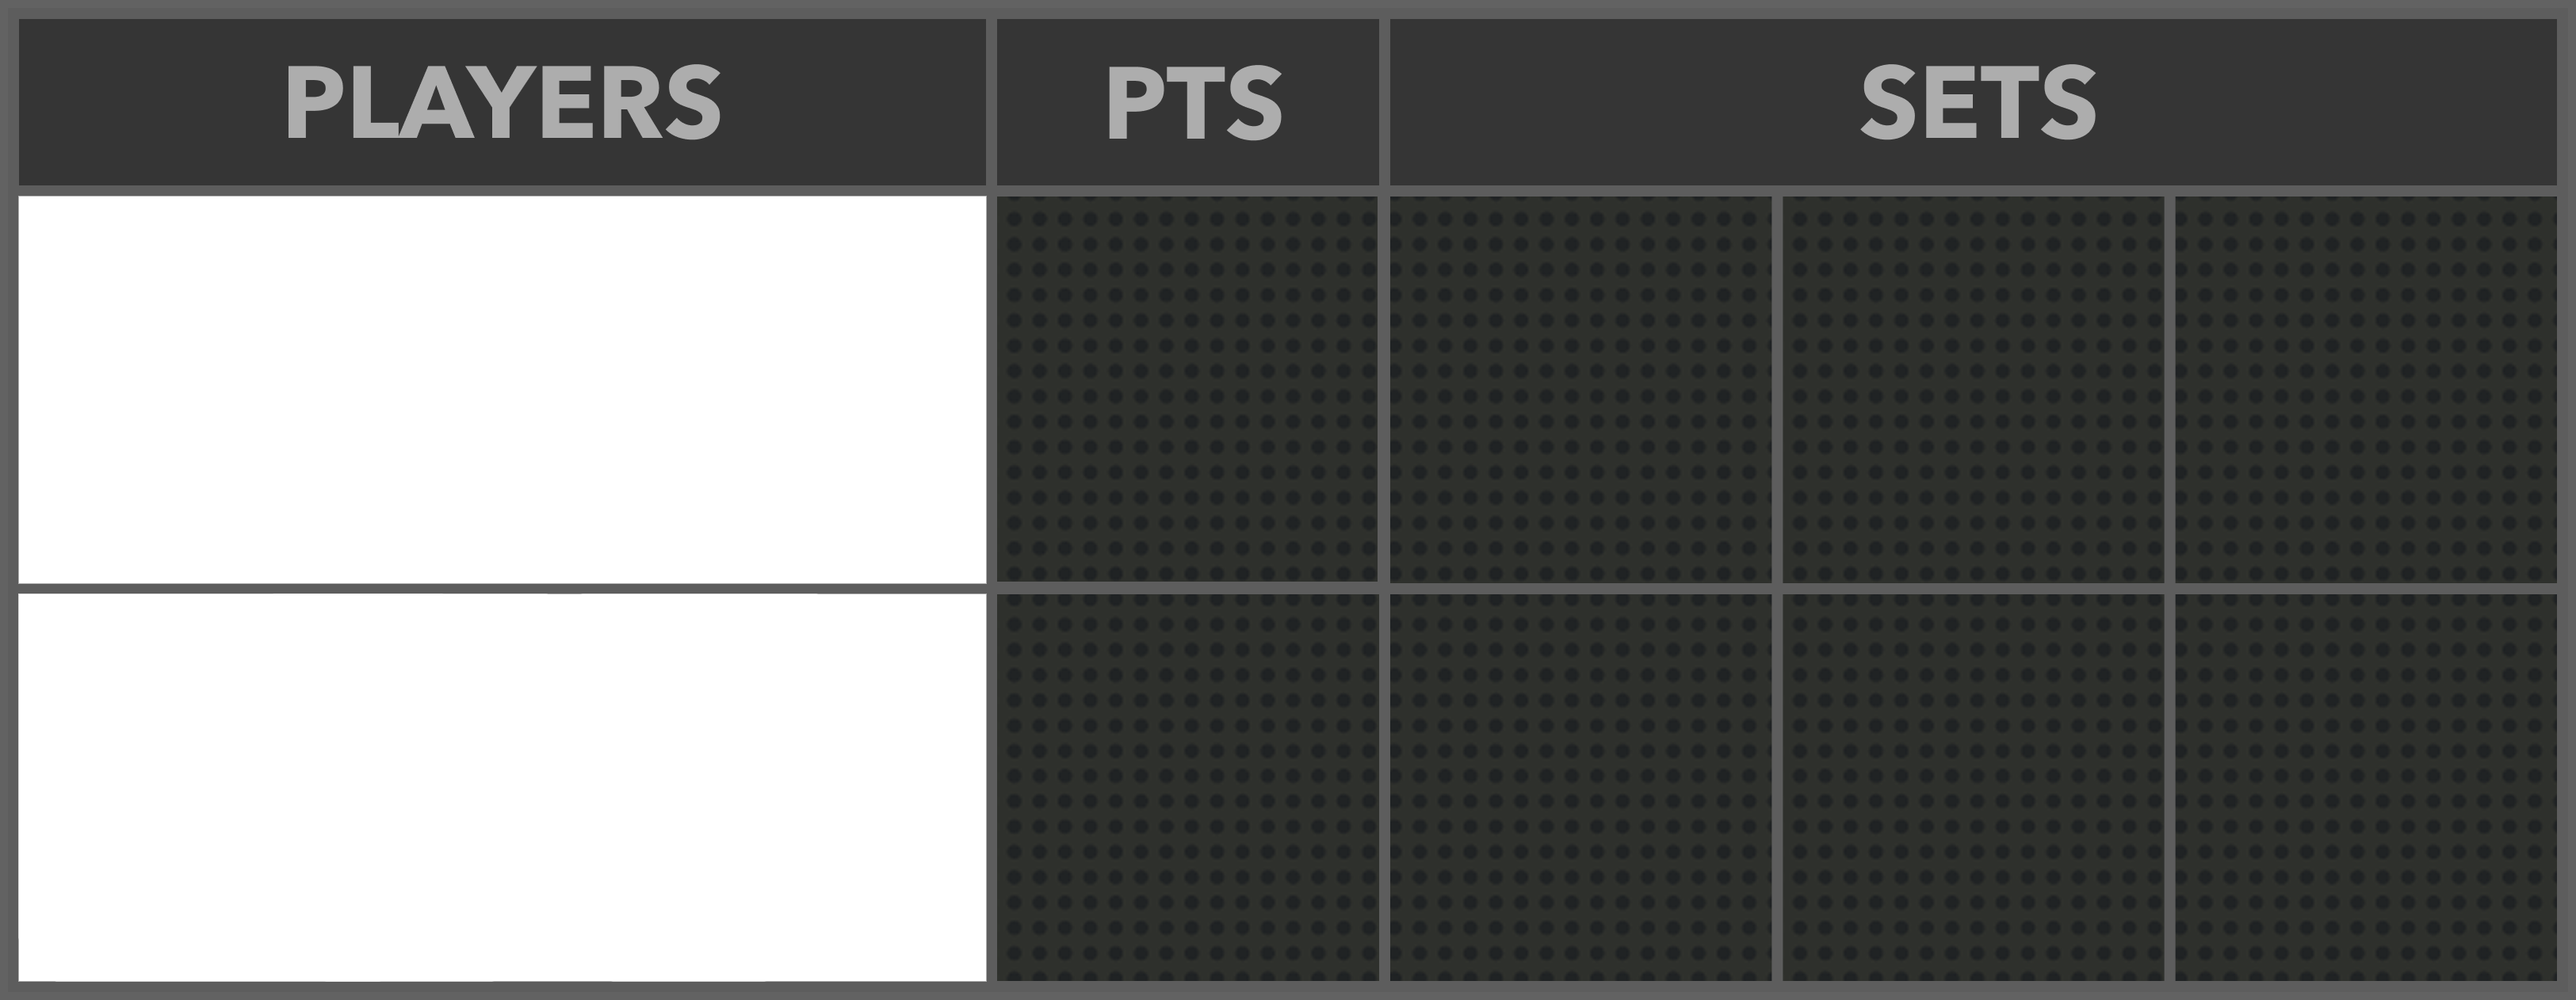
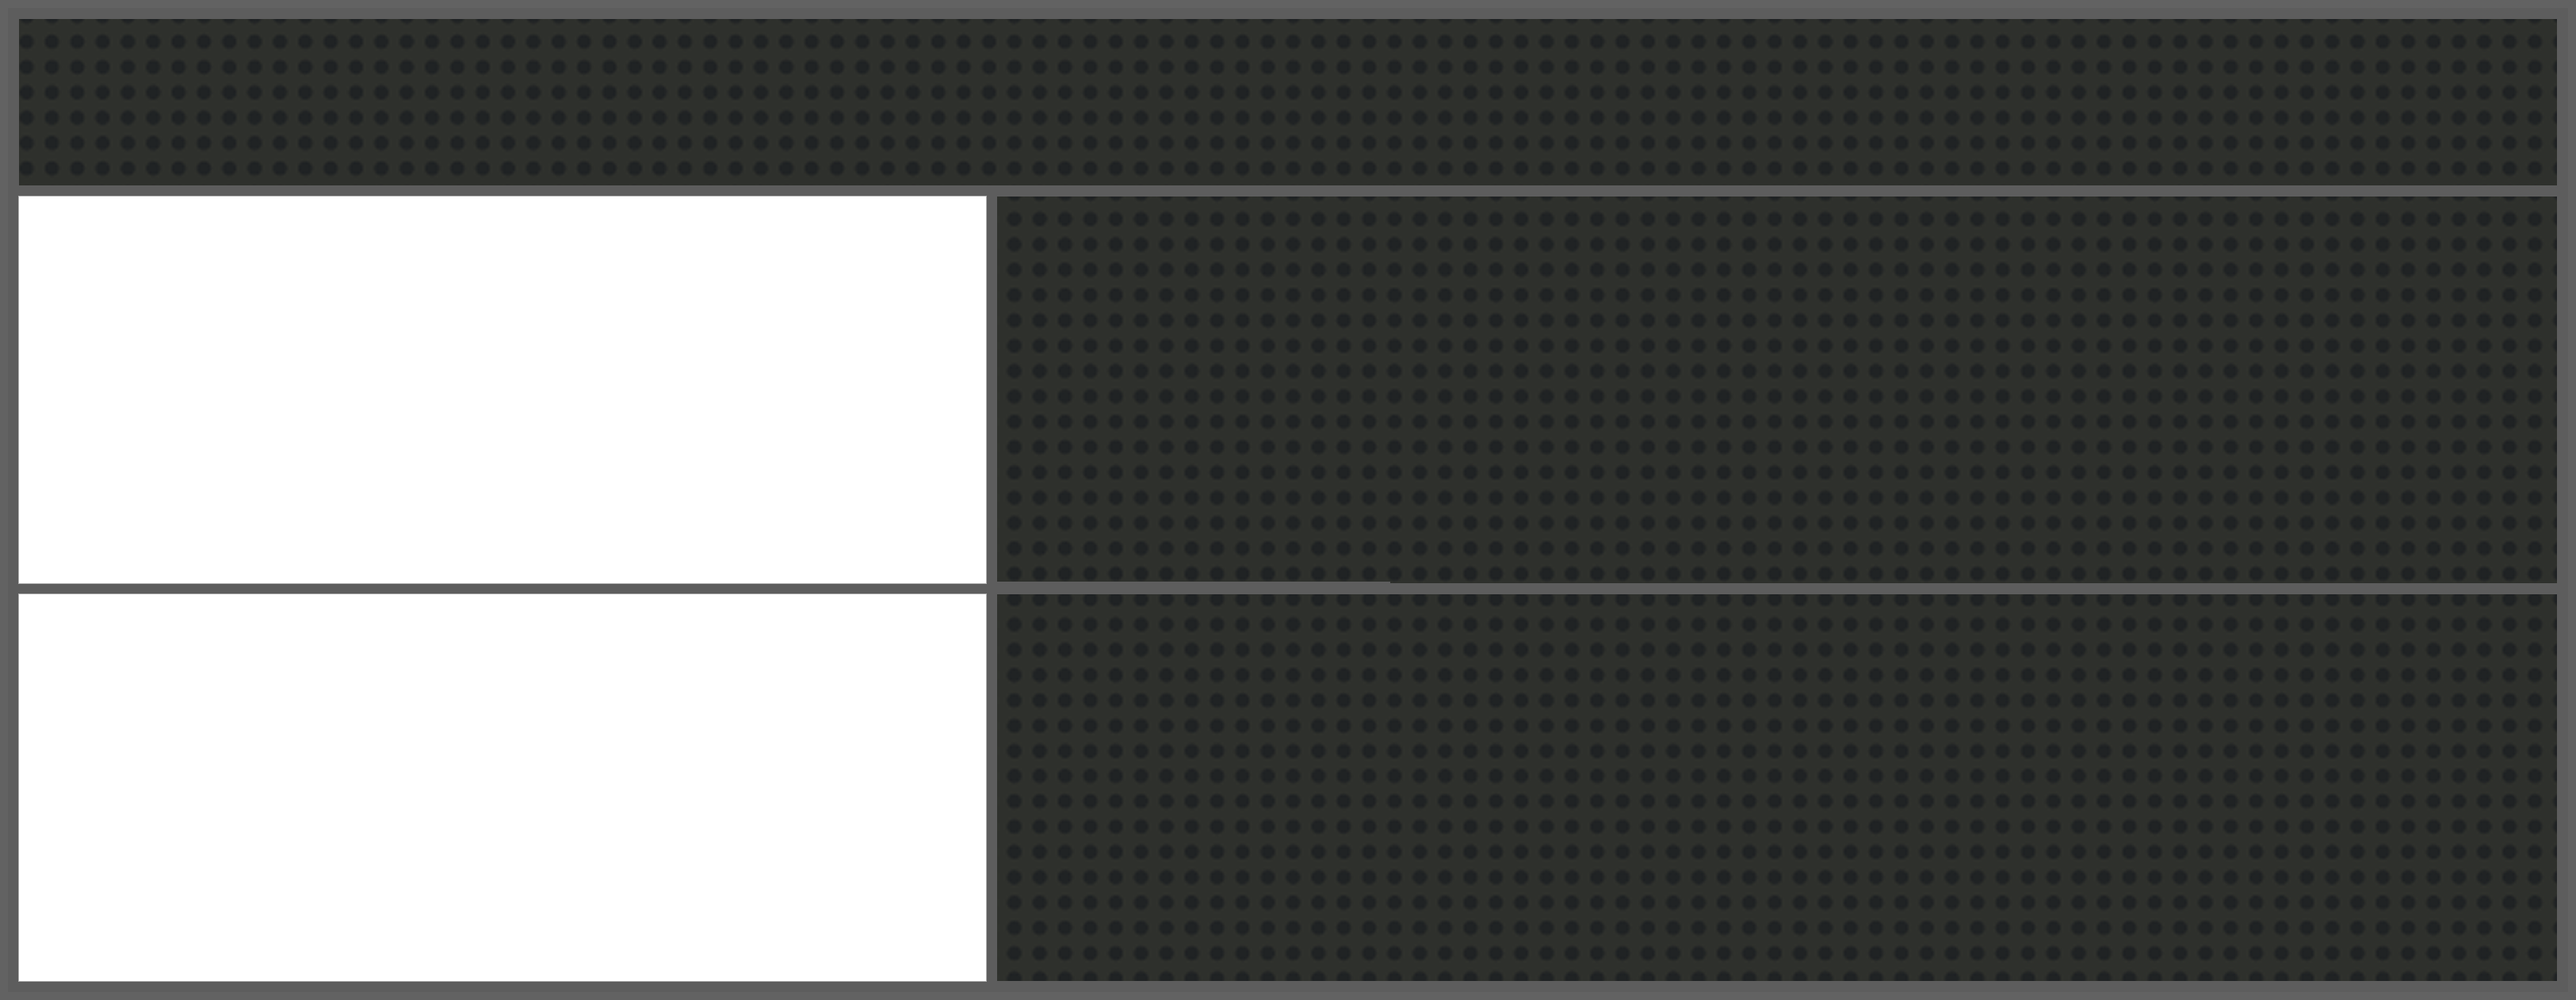
Add chaining conditional logic

diff --git a/src/shared/conditions.ts b/src/shared/conditions.ts
@@ -50,10 +50,21 @@ export interface Condition {
   rightValue?: string;
   /** Path right side (e.g. 'awayTeam.score'). */
   rightPath?: string;
+  /**
+   * How this condition chains onto the result so far (2nd row onward):
+   * `a AND b OR c` evaluates LEFT TO RIGHT — ((a AND b) OR c).
+   * Missing join falls back to the group's legacy `logic` setting.
+   */
+  join?: 'and' | 'or';
+  /** Negate this comparison (NOT). */
+  negate?: boolean;
 }
 
 export interface ConditionGroup {
-  /** How multiple conditions combine. Defaults to 'and'. */
+  /**
+   * Legacy combine mode — used as the default join for conditions that
+   * don't carry their own `join`. New rows always write `join` explicitly.
+   */
   logic: 'and' | 'or';
   conditions: Condition[];
 }
@@ -158,14 +169,31 @@ export const hasConditions = (group: ConditionGroup | undefined | null): group i
 /**
  * Evaluate a condition group. Returns null when there are no conditions so
  * callers can fall back to legacy behavior (visibilityPath / toggleDataPath).
+ *
+ * Conditions CHAIN left to right: each row's `join` (AND/OR) combines it
+ * with the result so far, and `negate` inverts the row first. So
+ * `a AND b OR c` is ((a AND b) OR c). Rows without a `join` use the
+ * group's legacy `logic` (old layouts keep their ALL/ANY behavior).
  */
 export const evaluateConditionGroup = (
   group: ConditionGroup | undefined | null,
   gameData: any
 ): boolean | null => {
   if (!hasConditions(group)) return null;
-  const results = group.conditions.map(c => evaluateCondition(c, gameData));
-  return group.logic === 'or' ? results.some(Boolean) : results.every(Boolean);
+
+  let result: boolean | null = null;
+  for (const cond of group.conditions) {
+    let value = evaluateCondition(cond, gameData);
+    if (cond.negate) value = !value;
+
+    if (result === null) {
+      result = value;
+      continue;
+    }
+    const join = cond.join || group.logic || 'and';
+    result = join === 'or' ? (result || value) : (result && value);
+  }
+  return result;
 };
 
 /**
@@ -195,11 +223,24 @@ export const isMultiStateGroup = (props: any): boolean => {
 
 /**
  * Human-readable summary of a condition (for chips / state cards),
- * e.g. "homeTeam.score > awayTeam.score".
+ * e.g. "NOT homeTeam.score > awayTeam.score".
  */
 export const describeCondition = (cond: Condition): string => {
   const right = cond.rightType === 'path' ? (cond.rightPath || '?') : (cond.rightValue ?? '?');
-  return `${cond.leftPath || '?'} ${cond.op} ${right}`;
+  return `${cond.negate ? 'NOT ' : ''}${cond.leftPath || '?'} ${cond.op} ${right}`;
+};
+
+/**
+ * Human-readable summary of a whole chained group,
+ * e.g. "a > b AND NOT c == 3 OR d >= 5".
+ */
+export const describeConditionGroup = (group: ConditionGroup): string => {
+  return group.conditions
+    .map((c, i) => {
+      const join = i === 0 ? '' : ` ${(c.join || group.logic || 'and').toUpperCase()} `;
+      return `${join}${describeCondition(c)}`;
+    })
+    .join('');
 };
 
 // ────────────────────────────────────────────────────────────────────────

diff --git a/src/components/WebPreview.tsx b/src/components/WebPreview.tsx
@@ -328,8 +328,8 @@ function WebPreview({ layout, selectedComponents, onSelectComponents, gameData }
             flipVertical={props.flipVertical}
             imageTintColor={props.imageTintColor}
             useImageTint={props.useImageTint}
-            useTeamColor={config.useTeamColor}
-            teamColorSide={config.teamColorSide}
+            useTeamColor={config.useTeamColor || props.useTeamColor}
+            teamColorSide={config.teamColorSide || props.teamColorSide}
             borderWidth={0}
             borderColor={'transparent'}
             borderStyle={'solid'}
@@ -391,8 +391,8 @@ function WebPreview({ layout, selectedComponents, onSelectComponents, gameData }
             paddingRight={props.paddingRight}
             paddingBottom={props.paddingBottom}
             paddingLeft={props.paddingLeft}
-            useTeamColor={config.useTeamColor}
-            teamColorSide={config.teamColorSide}
+            useTeamColor={config.useTeamColor || props.useTeamColor}
+            teamColorSide={config.teamColorSide || props.teamColorSide}
             borderWidth={0}
             borderColor={'transparent'}
             borderStyle={'solid'}
@@ -573,8 +573,8 @@ function WebPreview({ layout, selectedComponents, onSelectComponents, gameData }
             paddingRight={props.paddingRight}
             paddingBottom={props.paddingBottom}
             paddingLeft={props.paddingLeft}
-            useTeamColor={config.useTeamColor}
-            teamColorSide={config.teamColorSide}
+            useTeamColor={config.useTeamColor || props.useTeamColor}
+            teamColorSide={config.teamColorSide || props.teamColorSide}
             borderWidth={0}
             borderColor={'transparent'}
             borderStyle={'solid'}
@@ -719,8 +719,8 @@ function WebPreview({ layout, selectedComponents, onSelectComponents, gameData }
             flipVertical={props.flipVertical}
             imageTintColor={props.imageTintColor}
             useImageTint={props.useImageTint}
-            useTeamColor={config.useTeamColor}
-            teamColorSide={config.teamColorSide}
+            useTeamColor={config.useTeamColor || props.useTeamColor}
+            teamColorSide={config.teamColorSide || props.teamColorSide}
             canToggle={props.canToggle}
             toggleState={props.toggleState}
             state1Props={props.state1Props}

diff --git a/src/components/common/ConditionBuilder.tsx b/src/components/common/ConditionBuilder.tsx
@@ -140,7 +140,7 @@ const ConditionBuilder: React.FC<ConditionBuilderProps> = ({
   };
 
   const addCondition = () => {
-    commit([...conditions, emptyCondition()]);
+    commit([...conditions, { ...emptyCondition(), join: 'and' }]);
   };
 
   return (
@@ -149,29 +149,31 @@ const ConditionBuilder: React.FC<ConditionBuilderProps> = ({
         <div className="condition-builder__empty">{emptyHint}</div>
       )}
 
-      {conditions.length > 1 && (
-        <div className="condition-builder__logic">
-          <span className="condition-builder__logic-label">Match</span>
-          <button
-            type="button"
-            className={`condition-builder__logic-btn ${logic === 'and' ? 'is-active' : ''}`}
-            onClick={() => commit(conditions, 'and')}
-          >
-            ALL (and)
-          </button>
-          <button
-            type="button"
-            className={`condition-builder__logic-btn ${logic === 'or' ? 'is-active' : ''}`}
-            onClick={() => commit(conditions, 'or')}
-          >
-            ANY (or)
-          </button>
-        </div>
-      )}
-
       {conditions.map((cond, index) => {
         return (
           <div key={index} className="condition-builder__row">
+            {/* Chain operator — how this row combines with the result so far.
+                Evaluation is left to right: a AND b OR c = ((a AND b) OR c) */}
+            {index > 0 && (
+              <select
+                className="condition-builder__join"
+                value={cond.join || logic || 'and'}
+                onChange={(e) => updateCondition(index, { join: e.target.value as 'and' | 'or' })}
+              >
+                <option value="and">AND</option>
+                <option value="or">OR</option>
+              </select>
+            )}
+
+            <button
+              type="button"
+              className={`condition-builder__not ${cond.negate ? 'is-on' : ''}`}
+              onClick={() => updateCondition(index, { negate: cond.negate ? undefined : true })}
+              title={cond.negate ? 'Negated (NOT) — click to remove' : 'Click to negate (NOT)'}
+            >
+              NOT
+            </button>
+
             {renderPathControl(cond.leftPath, (path) => updateCondition(index, { leftPath: path }))}
 
             <select

diff --git a/src/components/common/ConditionBuilder.css b/src/components/common/ConditionBuilder.css
@@ -10,32 +10,43 @@
   font-style: italic;
 }
 
-.condition-builder__logic {
-  display: flex;
-  align-items: center;
-  gap: 6px;
-}
-
-.condition-builder__logic-label {
-  font-size: 11px;
-  color: #aaa;
-}
-
-.condition-builder__logic-btn {
-  padding: 3px 10px;
-  font-size: 11px;
+/* Per-row chain operator (AND/OR) — combines the row with the result so far */
+.condition-builder__row select.condition-builder__join {
+  flex: 0 0 58px;
+  width: 58px;
+  min-width: 58px;
+  text-align: center;
+  text-align-last: center;
   background-color: #333;
-  color: #ccc;
+  color: #4FC3F7;
+  border: 1px solid #555;
+  border-radius: 3px;
+  padding: 5px 2px;
+  font-size: 11px;
+  font-weight: bold;
+}
+
+/* Per-row negation toggle */
+.condition-builder__not {
+  flex-shrink: 0;
+  padding: 5px 6px;
+  font-size: 9px;
+  font-weight: bold;
+  letter-spacing: 0.5px;
+  background-color: #333;
+  color: #555;
   border: 1px solid #555;
   border-radius: 3px;
   cursor: pointer;
 }
 
-.condition-builder__logic-btn.is-active {
-  background-color: #1565c0;
-  color: #fff;
-  border-color: #1e88e5;
-  font-weight: bold;
+.condition-builder__not:hover {
+  color: #999;
+}
+
+.condition-builder__not.is-on {
+  color: #e57373;
+  border-color: #e57373;
 }
 
 /* One strict inline line per condition: [✓] [left] [op] [right] [mode] [✕].

diff --git a/src/components/common/DataPathPicker.tsx b/src/components/common/DataPathPicker.tsx
@@ -7,7 +7,7 @@ import {
 } from './dataPathOptions';
 import {
   ConditionGroup,
-  describeCondition,
+  describeConditionGroup,
   hasConditions,
 } from '../../shared/conditions';
 import ConditionBuilder from './ConditionBuilder';
@@ -247,7 +247,7 @@ const DataPathPicker: React.FC<DataPathPickerProps> = ({
 
   // Display values for the trigger button. A set condition wins over the path.
   const conditionSummary = conditionIsSet
-    ? conditionValue!.conditions.map(describeCondition).join(conditionValue!.logic === 'or' ? ' OR ' : ' AND ')
+    ? describeConditionGroup(conditionValue!)
     : null;
   const triggerTitle = conditionOnly
     ? 'Edit Conditions'

diff --git a/src/utils/imageManifest.generated.ts b/src/utils/imageManifest.generated.ts
@@ -1,7 +1,7 @@
 // AUTO-GENERATED FILE - DO NOT EDIT MANUALLY
 // Run `npm run sync-images` from the project root to regenerate
 //
-// Generated: 2026-06-09T15:31:41.030Z
+// Generated: 2026-06-11T18:34:37.464Z
 
 // Available sports (auto-detected from folder structure)
 export const AVAILABLE_SPORTS = ["Baseball","Basketball","Fallback","Football","Generic","Lacrosse-Hockey-Waterpolo","Leaderboard","Mocks","Rugby","Sequence","Soccer","Tennis","Tennis-LE","Universal","Utility","Volleyball","Wrestling","scoreTable","shootout"] as const;
